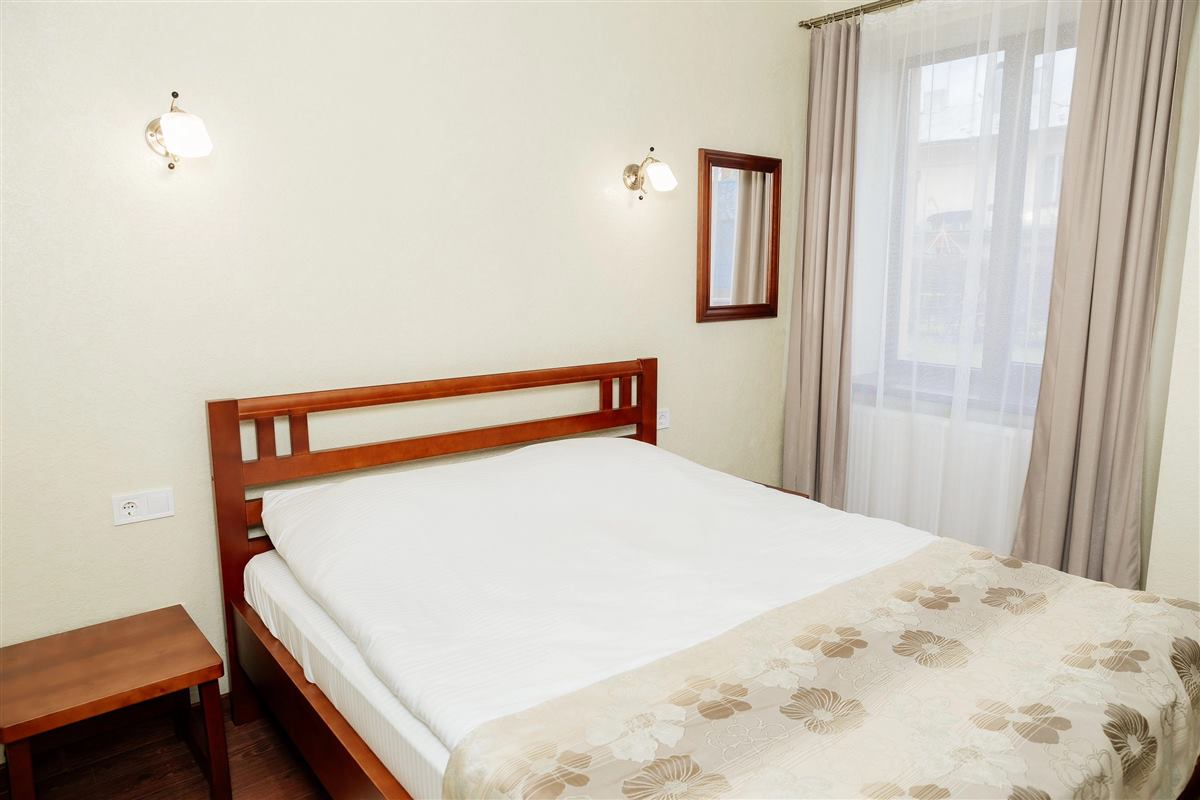
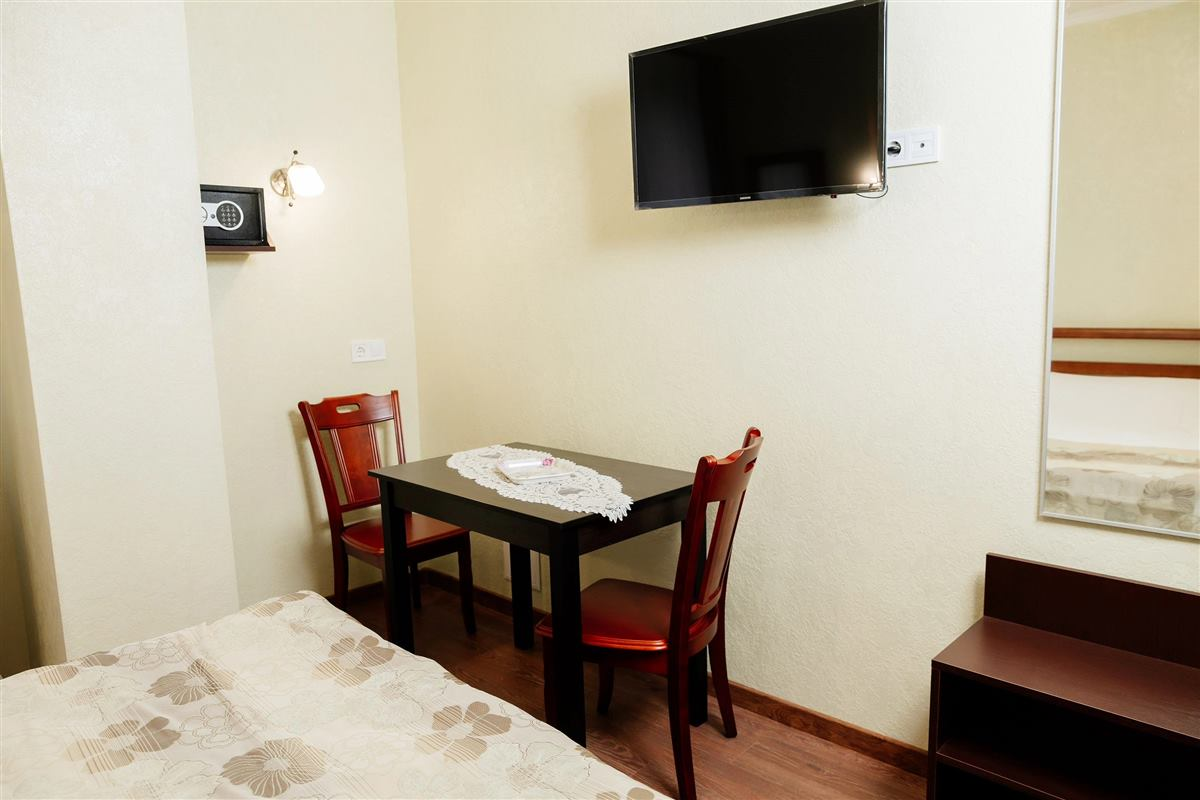
Update room image descriptions and adjust aspect ratio for better display

diff --git a/index.html b/index.html
@@ -28,7 +28,7 @@ html.js .reveal{opacity:0;transform:translateY(18px);transition:opacity .6s ease
 .city{background:var(--surface);border-block:1px solid var(--line)}.city-grid{display:grid;gap:14px}.city-grid figure{margin:0;display:flex;flex-direction:column;gap:8px;min-width:0;min-height:0}.city-grid img{display:block;width:100%;flex:1;min-height:0;height:100%;object-fit:cover;border-radius:var(--r);background:var(--line);box-shadow:inset 0 0 0 1px #0000001a}.city-grid figcaption{font-size:.88rem;color:var(--muted)}.city-grid.mosaic{grid-template-columns:minmax(0,1.35fr) minmax(0,1fr);grid-template-rows:280px 280px}.city-grid.mosaic figure:first-child{grid-row:1/3}.city-grid.strip{grid-template-columns:repeat(3,minmax(0,1fr));grid-template-rows:460px}.city-grid.offset{grid-template-columns:minmax(0,1fr) minmax(0,1fr);grid-template-rows:400px 300px}.city-grid.offset figure:first-child{grid-column:1/3}.credit{margin:18px 0 0;font-size:.84rem;color:var(--muted)}.credit a{color:inherit}
 @media(max-width:920px){.city-grid.mosaic{grid-template-rows:230px 230px}.city-grid.strip{grid-template-rows:360px}.city-grid.offset{grid-template-rows:320px 240px}}
 @media(max-width:560px){.city-grid.mosaic,.city-grid.strip,.city-grid.offset{grid-template-columns:minmax(0,1fr) minmax(0,1fr);grid-template-rows:250px 230px}.city-grid.mosaic figure:first-child,.city-grid.strip figure:first-child,.city-grid.offset figure:first-child{grid-column:1/3;grid-row:auto}}
-.room-grid{list-style:none;margin:0;padding:0;display:grid;grid-template-columns:repeat(auto-fill,minmax(250px,1fr));gap:14px}.room{display:flex;flex-direction:column;gap:6px;padding:0 0 20px;background:var(--surface);border:1px solid var(--line);border-radius:var(--r);overflow:hidden}.room img{display:block;width:100%;aspect-ratio:4/3;object-fit:cover;background:var(--line)}.room h3{margin:14px 22px 4px;padding:0 0 0;font:var(--head-w) 1.18rem/1.25 var(--head);text-wrap:balance}.room .room-cta{margin-left:22px}.room .beds{margin:0;color:var(--muted);font-size:.95rem}.room .cap{margin:0;font-weight:700;font-size:.92rem}.room ul{margin:6px 0 0;padding:0;list-style:none;display:flex;flex-wrap:wrap;gap:6px}.room li{font-size:.84rem;padding:4px 10px;border-radius:999px;background:var(--bg);border:1px solid var(--line)}.room-cta{margin-top:auto;padding-top:14px;align-self:flex-start;font-weight:700;color:var(--accent-ink);text-underline-offset:4px}.rooms-note{margin:18px 0 0;font-size:.92rem;color:var(--muted)}.rooms-note a{color:var(--accent-ink);font-weight:600}
+.room-grid{list-style:none;margin:0;padding:0;display:grid;grid-template-columns:repeat(auto-fill,minmax(250px,1fr));gap:14px}.room{display:flex;flex-direction:column;gap:6px;padding:0 0 20px;background:var(--surface);border:1px solid var(--line);border-radius:var(--r);overflow:hidden}.room img{display:block;width:100%;aspect-ratio:1/1;object-fit:cover;background:var(--line)}.room h3{margin:14px 22px 4px;padding:0 0 0;font:var(--head-w) 1.18rem/1.25 var(--head);text-wrap:balance}.room .room-cta{margin-left:22px}.room .beds{margin:0;color:var(--muted);font-size:.95rem}.room .cap{margin:0;font-weight:700;font-size:.92rem}.room ul{margin:6px 0 0;padding:0;list-style:none;display:flex;flex-wrap:wrap;gap:6px}.room li{font-size:.84rem;padding:4px 10px;border-radius:999px;background:var(--bg);border:1px solid var(--line)}.room-cta{margin-top:auto;padding-top:14px;align-self:flex-start;font-weight:700;color:var(--accent-ink);text-underline-offset:4px}.rooms-note{margin:18px 0 0;font-size:.92rem;color:var(--muted)}.rooms-note a{color:var(--accent-ink);font-weight:600}
 .more{margin-top:14px;border-top:1px solid var(--book-line);padding-top:12px}.more summary{display:inline-block;cursor:pointer;font-weight:700;font-size:.92rem;color:var(--accent-ink);list-style:none;padding:4px 0}.more summary::-webkit-details-marker{display:none}.more summary:before{content:"+ "}.more[open] summary:before{content:"− "}.more-in{display:grid;grid-template-columns:minmax(0,150px) minmax(0,1fr);gap:14px 20px;margin-top:12px;align-items:start}.more-in .full{grid-column:1/-1}.more-in:not(:has(.kids)) .extras{grid-column:1/-1}.extras{border:0;margin:0;padding:0;min-width:0}.extras legend{padding:0;margin-bottom:6px;font-size:.88rem;font-weight:600}.extras-list{display:flex;flex-wrap:wrap;gap:8px}.chk{display:inline-flex;align-items:center;gap:8px;min-height:40px;padding:6px 14px;border:1px solid var(--field-line);border-radius:999px;font-size:.9rem;cursor:pointer;background:var(--field-bg)}.chk input{width:18px;height:18px;margin:0;accent-color:var(--accent-ink)}.chk:has(input:checked){border-color:var(--accent-ink);box-shadow:inset 0 0 0 1px var(--accent-ink)}.chk:has(input:focus-visible){outline:3px solid var(--accent-ink);outline-offset:2px}
 .faq-grid{display:grid;grid-template-columns:minmax(0,4fr) minmax(0,8fr);gap:56px;align-items:start}.qa{border-top:1px solid var(--line)}.qa:last-child{border-bottom:1px solid var(--line)}.qa summary{position:relative;cursor:pointer;list-style:none;padding:18px 40px 18px 0;font-weight:700;font-size:1.02rem}.qa summary::-webkit-details-marker{display:none}.qa summary:after{content:"+";position:absolute;right:6px;top:12px;font-size:1.5rem;font-weight:400;color:var(--accent-ink)}.qa[open] summary:after{content:"−"}.qa p{margin:0 0 18px;color:var(--muted);max-width:62ch}.svc-points{margin:22px 0 0;padding:0;list-style:none;display:grid;gap:8px}.svc-points li{position:relative;padding-left:18px}.svc-points li:before{content:"";position:absolute;left:0;top:.62em;width:8px;height:8px;border-radius:50%;background:var(--accent-ink)}.contact-alt{display:flex;flex-wrap:wrap;gap:8px 18px;margin-top:16px}.contact-alt a{font-weight:600;color:var(--accent-ink)}
 @media(max-width:920px){.faq-grid{grid-template-columns:1fr;gap:20px}}@media(max-width:560px){.more-in{grid-template-columns:1fr}.room-grid{grid-template-columns:1fr}}

diff --git a/README.md b/README.md
@@ -71,7 +71,7 @@ HotelOS (`ch-panskyidvir`): `stay-request` (проживання), `event-reques
 |---|---|---|
 | images/room-std-1bed.jpg | Стандартний, 1 ліжко | panskiy-dvir.com.ua/standart-2-osoby-1-bed/ |
 | images/room-std-2beds.jpg | Стандартний, 2 ліжка | panskiy-dvir.com.ua/standart-2-beds/ |
-| images/room-budget.jpg | Бюджетний | panskiy-dvir.com.ua/standart-byudzhetnyj-2-beds/ |
+| images/room-budget.jpg | Бюджетний | panskiy-dvir.com.ua/standart-byudzhetnyj-2-beds/ (фото 2 — щоб не дублювати кадр ліжка зі «Стандартний, 1 ліжко») |
 | images/room-lyuks.jpg | Номер «Люкс» | panskiy-dvir.com.ua/lyuks/ |
 
 Фото міста (не готелю) — з Pexels, підключені за прямими посиланнями images.pexels.com (без копій у репо), з підписами та авторами на сторінці:
